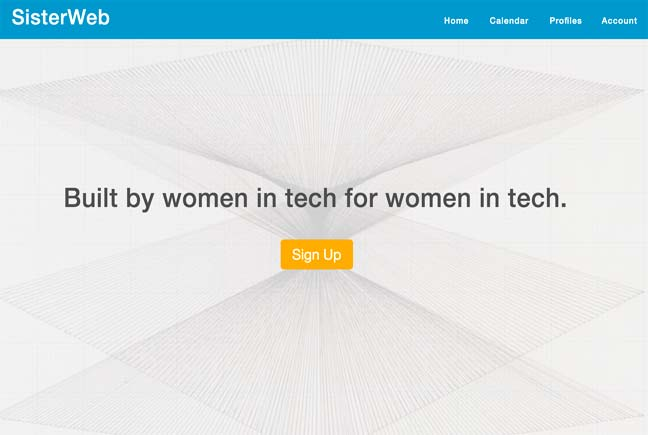
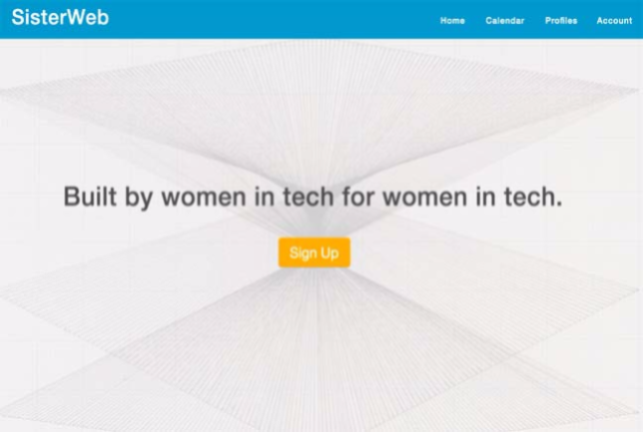
fussing with image sizes

diff --git a/app/assets/stylesheets/static_page.scss b/app/assets/stylesheets/static_page.scss
@@ -1,51 +1,6 @@
 @import "bootstrap-sprockets";
 @import "bootstrap";
 
-/* home */
-
-/* typography */
-
-h1, h2, h3, h4, h5, h6 {
-  line-height: 1.2;
-}
-
-h1{
-  color: black;
-}
-
-h1 {
-  font-size: 2.0em;
-  margin-bottom: 30px;
-  text-align: center;
-  font-family: "Open Sans", normal, sans-serif;
-  font-weight: bold;
-}
-
-h2 {
-  font-size: 1.6em;
-  line-height: 1.65em;
-  letter-spacing: 1px;
-  margin-bottom: 10px;
-  text-align: left;
-  font-weight: bold;
-  font-family: "Montserrat", sans-serif;
-}
-
-
-h3{
-  margin-bottom: 10px;
-  text-align: center;
-  font-weight: normal;
-  font-size: 3.0em;
-  letter-spacing: 1.4px;
-  font-family: "Montserrat", sans-serif;
-}
-
-p {
-  font-size: 1.06em;
-  font-family: "Open Sans", sans-serif;
-}
-
 /* Home */
 
 .center.jumbotron{
@@ -89,19 +44,19 @@ div.col-md-4{
   width: 30%;
   text-align: center;
   padding: 0px;
-}
-
-img{
-  margin-top: 8px;
-  width: 200px;
-  height: 325px;
   margin-left: auto;
   margin-right: auto;
-  text-align: center;
+}
+
+.col-md-4 img.image-responsive{
+  margin-left: auto;
+  margin-right: auto;
 }
 
 div.col-md-8{
   width: 66%;
+  margin-left: auto;
+  margin-right: auto;
 }
 
 div.col-md-8 p{
@@ -124,16 +79,15 @@ div.col-md-8 p{
     }
 }
 
-div.col-xs-6.col-lg-4.card{
-  margin-bottom: 50px;
-}
-
 div.col-xs-6.col-lg-4.card h2{
+  font-size: 1.6em;
+  line-height: 1.65em;
+  color: #4d4d4d;
   margin-left: auto;
   margin-right: auto;
   margin-top: 15px;
   margin-bottom: 25px;
-  letter-spacing: 2px;
+  letter-spacing: 1px;
   text-decoration: none;
   text-align: center;
   text-transform: uppercase;
@@ -150,9 +104,40 @@ div.col-xs-6.col-lg-4.card p{
 
 div.col-xs-6.col-lg-4.card img.img-responsive{
   border: 1px solid #cccccc;
+  
 }
 
-img.img-responsive{
-  width: 440px;
-  height: 219px;
+
+div.col-lg-4 .card .img{
+  float: left;
 }
+
+/*Application
+*/
+@media screen and (min-width: 544px) {
+    body {
+        font-size: 0.8em;
+    }
+}
+
+/* sm */
+@media screen and (min-width: 768px) {
+    body {
+        font-size: 1em;
+    }
+}
+
+/* md */
+@media screen and (min-width: 992px) {
+    body {
+        font-size: 1.2em;
+    }
+}
+
+/* lg */
+@media screen and (min-width: 1200px) {
+    body {
+        font-size: 1.4em;
+    }
+}
+

diff --git a/app/assets/stylesheets/links.scss b/app/assets/stylesheets/links.scss
@@ -2,6 +2,7 @@
 
 h1, h2, h3, h4, h5, h6 {
   line-height: 1.2;
+  color: #4d4d4d;
 }
 
 h1{
@@ -9,6 +10,7 @@ h1{
 }
 
 h1 {
+  color: #4d4d4d;
   font-size: 2.0em;
   margin-bottom: 30px;
   text-align: center;
@@ -17,11 +19,15 @@ h1 {
 }
 
 .intro h2 {
+  color: #4d4d4d;
   font-size: 1.6em;
+  line-height: 1.65em;
+  letter-spacing: 1px;
   margin-bottom: 10px;
   text-align: center;
   font-weight: bold;
   font-family: "Montserrat", sans-serif;
+  text-transform: uppercase;
 }
 
 
@@ -30,7 +36,6 @@ h3{
   text-align: center;
   font-weight: normal;
   font-size: 3.0em;
-  letter-spacing: 2px;
   font-family: "Montserrat", sans-serif;
 }
 
@@ -42,6 +47,8 @@ h3{
     color: inherit;
     background-color: white;
     h3{
+      letter-spacing: 1px;
+      color: #4d4d4d;
       text-align: center;
     }
 }
@@ -65,3 +72,40 @@ img.img-responsive{
   margin-left: auto;
   margin-right: auto;
 }
+
+/* SisterWeb */
+
+div.button{
+  margin-top: 40px;
+  text-align: center;
+}
+
+/*Application
+*/
+@media screen and (max-width: 767px) {
+    body {
+        font-size: 0.8em;
+    }
+}
+
+/* sm */
+@media screen and (min-width: 768px) {
+    body {
+        font-size: 1.2em;
+    }
+}
+
+/* md */
+@media screen and (min-width: 992px) {
+    body {
+        font-size: 1.4em;
+    }
+}
+
+/* lg */
+@media screen and (min-width: 1200px) {
+    body {
+        font-size: 1.6em;
+    }
+}
+

diff --git a/app/assets/stylesheets/custom.scss b/app/assets/stylesheets/custom.scss
@@ -129,3 +129,32 @@ p#copyright{
   font-size: 1.00em;
 }
 
+/*Application
+*/
+@media screen and (max-width: 767px) {
+    body {
+        font-size: 0.8em;
+    }
+}
+
+/* sm */
+@media screen and (min-width: 768px) {
+    body {
+        font-size: 1.2em;
+    }
+}
+
+/* md */
+@media screen and (min-width: 992px) {
+    body {
+        font-size: 1.4em;
+    }
+}
+
+/* lg */
+@media screen and (min-width: 1200px) {
+    body {
+        font-size: 1.6em;
+    }
+}
+
